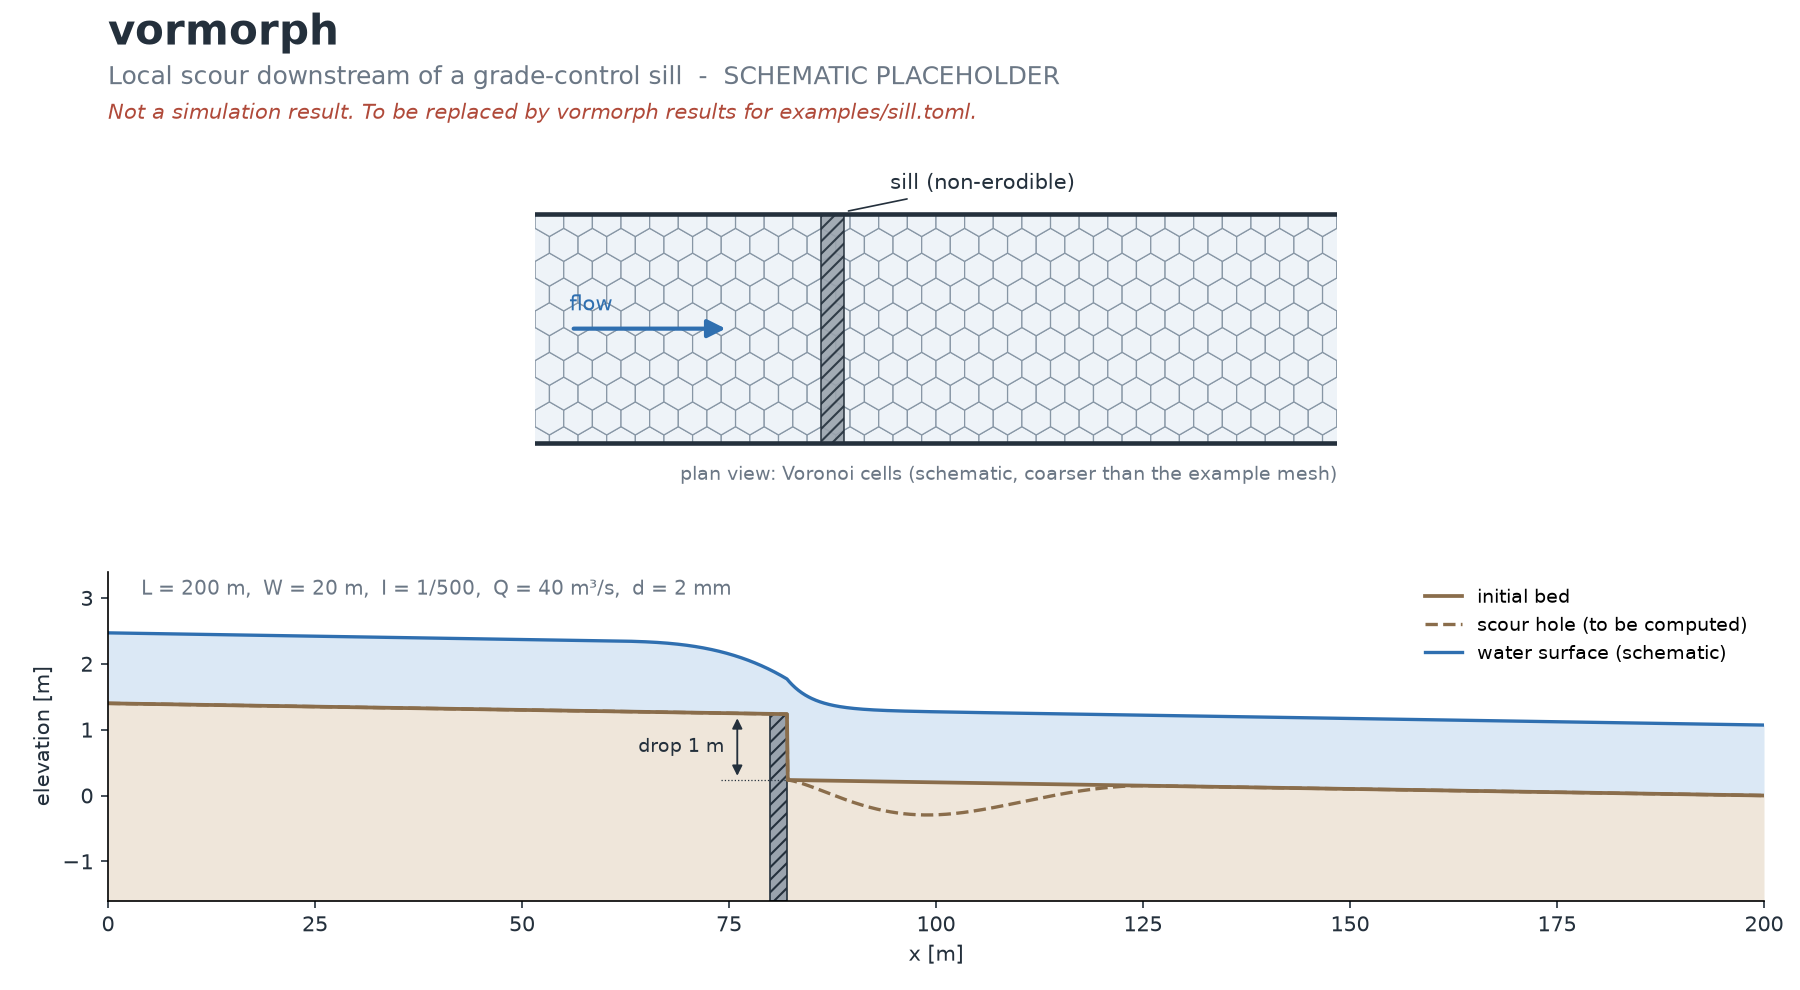
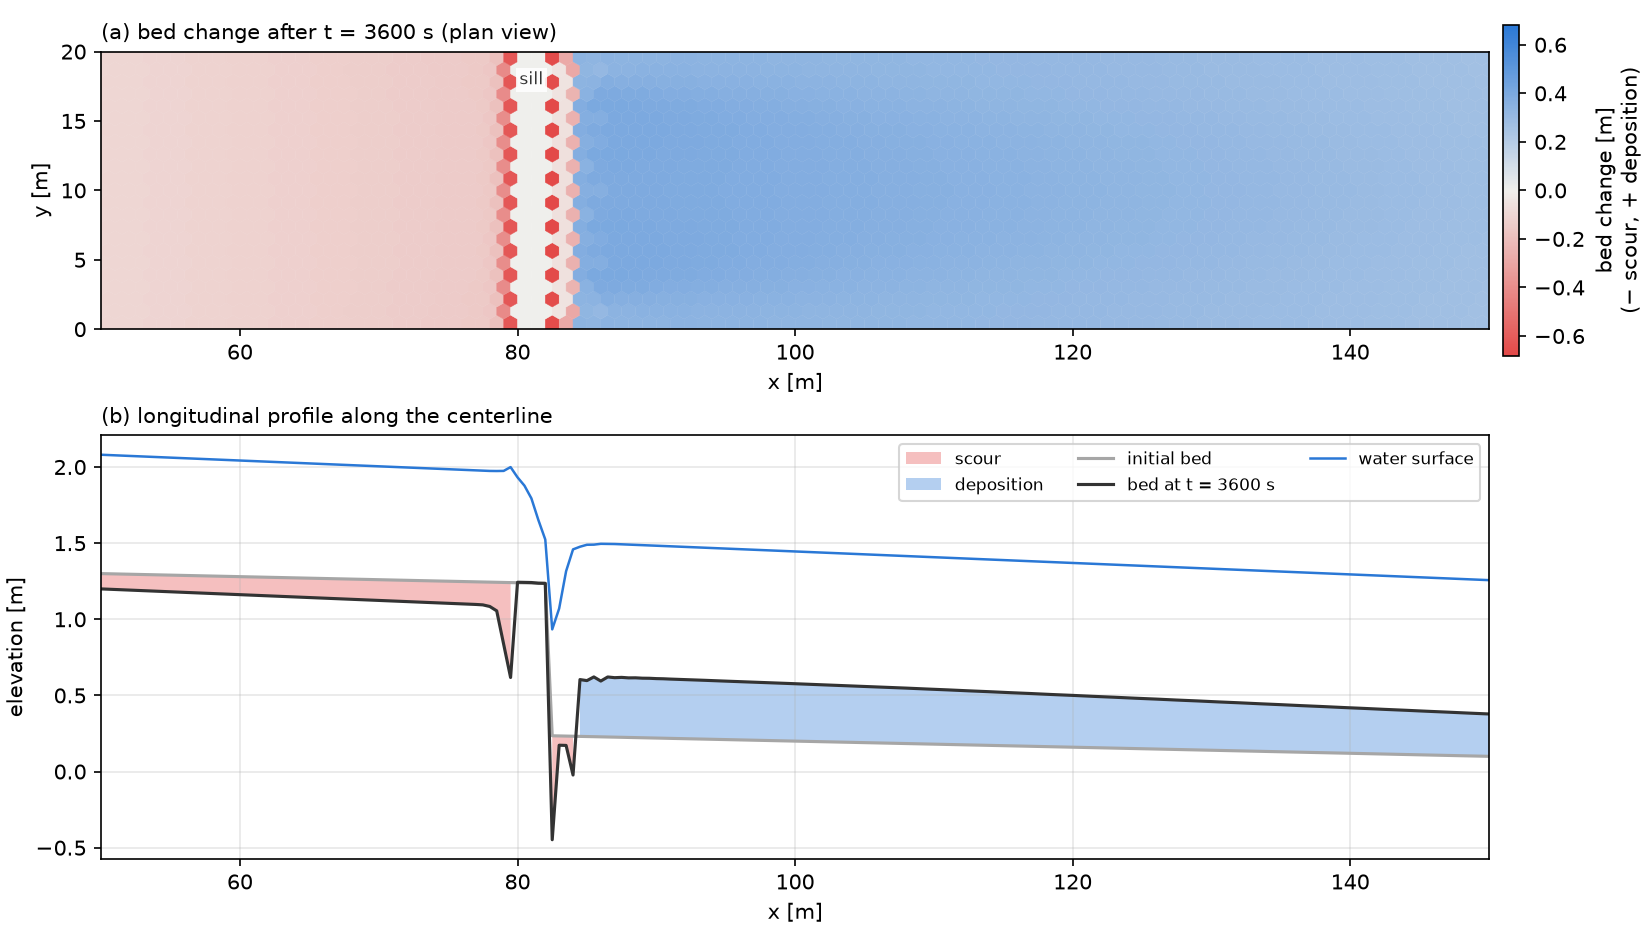
docs(readme): replace the hero image with the sill example result
tools/plot_sill.py draws the bed change of examples/sill.toml in plan view
(diverging colours centred on zero) and along the centerline. The caption
states that the one-cell scour hole below the sill depends on the grid and
that the broad deposition includes the extra equilibrium supply caused by
the drawdown.

Claude-Session: https://claude.ai/code/session_0163QpRb6tc7Fv4S6eEipgMW

diff --git a/tools/plot_sill.py b/tools/plot_sill.py
@@ -1,0 +1,181 @@
+"""床止めの例題（examples/sill.toml）の計算結果から、河床変動量の平面図と縦断図を描く。
+
+README の冒頭の図（docs/images/hero.png）を、この図で作る。
+
+使い方::
+
+    cargo run --release -- run examples/sill.toml
+    uv run --project tools python tools/plot_sill.py output/sill/sill.pvd -o docs/images/hero.png
+
+前提（src/io.rs の出力の規約）:
+    `.pvd` の最初の時刻が初期状態、最後の時刻が描く状態。セルデータに x_cell, y_cell, zb, eta, h,
+    dzb がある。床止めの位置（非侵食層の帯）は fixed_bed から求める。
+"""
+
+from __future__ import annotations
+
+import argparse
+from collections.abc import Sequence
+from pathlib import Path
+
+import matplotlib
+
+matplotlib.use("Agg")
+
+import matplotlib.pyplot as plt
+import meshio
+import numpy as np
+from matplotlib.collections import PolyCollection
+from matplotlib.colors import LinearSegmentedColormap
+
+from plot_profile import cell_field, longitudinal_profile
+from plot_verification import read_collection
+
+EROSION = "#e34948"
+"""洗掘（河床が下がる）の色（発散配色の赤の極）。"""
+DEPOSITION = "#2a78d6"
+"""堆積（河床が上がる）の色（発散配色の青の極）。"""
+NEUTRAL = "#f0efec"
+"""変化のない所の色（発散配色の中点の灰色）。"""
+WATER = "#2a78d6"
+"""水面の線の色。"""
+INITIAL_BED = "0.65"
+"""初期の河床の線の色（無彩色）。"""
+BED = "0.2"
+"""計算後の河床の線の色。"""
+
+
+def bed_change_colormap() -> LinearSegmentedColormap:
+    """河床変動量の発散配色（洗掘 = 赤、0 = 灰色、堆積 = 青）。0 を中央に置いて使う。"""
+    return LinearSegmentedColormap.from_list("bed_change", [EROSION, NEUTRAL, DEPOSITION])
+
+
+def symmetric_limit(values: np.ndarray) -> float:
+    """0 を中央に置く色の範囲の上限（絶対値の最大値。すべて 0 なら 1）。"""
+    limit = float(np.nanmax(np.abs(values))) if values.size else 0.0
+    return limit if limit > 0.0 else 1.0
+
+
+def cell_polygons(mesh: meshio.Mesh) -> list[np.ndarray]:
+    """セルの多角形（頂点の xy 座標）を、セルデータと同じ順に返す。"""
+    points = mesh.points[:, :2]
+    return [points[cell] for block in mesh.cells for cell in block.data]
+
+
+def sill_extent(mesh: meshio.Mesh) -> tuple[float, float] | None:
+    """非侵食層のあるセル（fixed_bed = 1）の x の範囲（なければ None）。"""
+    if "fixed_bed" not in mesh.cell_data:
+        return None
+    fixed = cell_field(mesh, "fixed_bed") > 0.5
+    if not fixed.any():
+        return None
+    polygons = cell_polygons(mesh)
+    xs = np.concatenate([polygons[c][:, 0] for c in np.flatnonzero(fixed)])
+    return float(xs.min()), float(xs.max())
+
+
+def plot_sill(pvd: Path, output: Path, x_range: tuple[float, float]) -> None:
+    """平面図（河床変動量）と、中心線の縦断図（初期の河床、計算後の河床、水面）を描く。"""
+    entries = read_collection(pvd)
+    initial = meshio.read(entries[0][1])
+    time, path = entries[-1]
+    final = meshio.read(path)
+
+    x = cell_field(final, "x_cell")
+    y = cell_field(final, "y_cell")
+    dzb = cell_field(final, "dzb")
+    polygons = cell_polygons(final)
+    inside = (x >= x_range[0]) & (x <= x_range[1])
+    limit = symmetric_limit(dzb[inside])
+
+    width = float(y.max() + y.min())
+    fig, (plan, profile) = plt.subplots(
+        2, 1, figsize=(11, 6.2), constrained_layout=True, height_ratios=(1.0, 1.15)
+    )
+    cells = PolyCollection(
+        [polygons[c] for c in np.flatnonzero(inside)],
+        array=dzb[inside],
+        cmap=bed_change_colormap(),
+        edgecolors="face",
+        linewidths=0.2,
+    )
+    cells.set_clim(-limit, limit)
+    plan.add_collection(cells)
+    plan.set_xlim(*x_range)
+    plan.set_ylim(0.0, width)
+    plan.set_aspect("equal")
+    plan.set_xlabel("x [m]")
+    plan.set_ylabel("y [m]")
+    colorbar = fig.colorbar(cells, ax=plan, shrink=0.9, pad=0.01)
+    colorbar.set_label("bed change [m]\n(− scour, + deposition)")
+    sill = sill_extent(final)
+    if sill is not None:
+        plan.text(
+            0.5 * (sill[0] + sill[1]),
+            0.93 * width,
+            "sill",
+            ha="center",
+            va="top",
+            fontsize="small",
+            color="0.2",
+            bbox={"facecolor": "white", "edgecolor": "none", "alpha": 0.85, "pad": 1.5},
+        )
+    plan.set_title(
+        f"(a) bed change after t = {time:g} s (plan view)",
+        loc="left",
+        fontsize="medium",
+    )
+
+    center = 0.5 * width
+    x0, zb0, _ = longitudinal_profile(initial, y_center=center, half_band=1.0, bin_width=0.5)
+    x1, zb1, eta1 = longitudinal_profile(final, y_center=center, half_band=1.0, bin_width=0.5)
+    keep0 = (x0 >= x_range[0]) & (x0 <= x_range[1])
+    keep1 = (x1 >= x_range[0]) & (x1 <= x_range[1])
+    zb0_on_1 = np.interp(x1, x0, zb0)
+    profile.fill_between(
+        x1[keep1],
+        zb0_on_1[keep1],
+        zb1[keep1],
+        where=zb1[keep1] < zb0_on_1[keep1],
+        color=EROSION,
+        alpha=0.35,
+        lw=0.0,
+        label="scour",
+    )
+    profile.fill_between(
+        x1[keep1],
+        zb0_on_1[keep1],
+        zb1[keep1],
+        where=zb1[keep1] > zb0_on_1[keep1],
+        color=DEPOSITION,
+        alpha=0.35,
+        lw=0.0,
+        label="deposition",
+    )
+    profile.plot(x0[keep0], zb0[keep0], color=INITIAL_BED, lw=1.5, label="initial bed")
+    profile.plot(x1[keep1], zb1[keep1], color=BED, lw=1.5, label=f"bed at t = {time:g} s")
+    profile.plot(x1[keep1], eta1[keep1], color=WATER, lw=1.2, label="water surface")
+    profile.set_xlim(*x_range)
+    profile.set_xlabel("x [m]")
+    profile.set_ylabel("elevation [m]")
+    profile.set_title("(b) longitudinal profile along the centerline", loc="left", fontsize="medium")
+    profile.legend(loc="upper right", fontsize="small", ncol=3)
+    profile.grid(alpha=0.3)
+    fig.savefig(output, dpi=150)
+
+
+def main(argv: Sequence[str] | None = None) -> int:
+    parser = argparse.ArgumentParser(description=__doc__.splitlines()[0])
+    parser.add_argument("pvd", type=Path, help="the .pvd written by `vormorph run examples/sill.toml`")
+    parser.add_argument("-o", "--output", type=Path, required=True, help="output image")
+    parser.add_argument(
+        "--x-range", type=float, nargs=2, default=(50.0, 150.0), metavar=("X0", "X1"), help="x range [m]"
+    )
+    args = parser.parse_args(argv)
+    plot_sill(args.pvd, args.output, tuple(args.x_range))
+    print(f"wrote {args.output}")
+    return 0
+
+
+if __name__ == "__main__":
+    raise SystemExit(main())

diff --git a/tools/tests/test_plot_sill.py b/tools/tests/test_plot_sill.py
@@ -1,0 +1,73 @@
+"""plot_sill.py のテスト。"""
+
+from __future__ import annotations
+
+from pathlib import Path
+
+import meshio
+import numpy as np
+import pytest
+
+from plot_sill import bed_change_colormap, main, sill_extent, symmetric_limit
+
+
+def write_case(directory: Path) -> Path:
+    """4 × 2 個の正方形セルの水路（x = 0〜4、y = 0〜2）の2時刻を書き、.pvd を返す。
+
+    x = 1〜2 の列を床止め（fixed_bed = 1）とし、最後の時刻に下流側を掘る。
+    """
+    nx, ny = 4, 2
+    points = np.array([[i, j, 0.0] for j in range(ny + 1) for i in range(nx + 1)], dtype=float)
+    cells = []
+    for j in range(ny):
+        for i in range(nx):
+            a = j * (nx + 1) + i
+            cells.append([a, a + 1, a + nx + 2, a + nx + 1])
+    xc = np.array([i + 0.5 for j in range(ny) for i in range(nx)])
+    yc = np.array([j + 0.5 for j in range(ny) for i in range(nx)])
+    zb0 = 0.01 * (nx - xc)
+    entries = []
+    for k, dz in enumerate([np.zeros_like(xc), np.where(xc > 2.0, -0.2, 0.0)]):
+        zb = zb0 + dz
+        data = {
+            "x_cell": xc,
+            "y_cell": yc,
+            "zb": zb,
+            "eta": zb0 + 1.0,
+            "h": zb0 + 1.0 - zb,
+            "dzb": dz,
+            "fixed_bed": np.where((xc > 1.0) & (xc < 2.0), 1.0, 0.0),
+        }
+        name = f"case_{k:06d}.vtu"
+        meshio.write(
+            directory / name,
+            meshio.Mesh(points, [("quad", np.array(cells))], cell_data={key: [v] for key, v in data.items()}),
+        )
+        entries.append((60.0 * k, name))
+    pvd = directory / "case.pvd"
+    body = "\n".join(f'    <DataSet timestep="{t}" group="" part="0" file="{n}"/>' for t, n in entries)
+    pvd.write_text(
+        f'<?xml version="1.0"?>\n<VTKFile type="Collection"><Collection>\n{body}\n</Collection></VTKFile>\n',
+        encoding="utf-8",
+    )
+    return pvd
+
+
+def test_symmetric_limit_centers_the_colors_on_zero() -> None:
+    assert symmetric_limit(np.array([-0.3, 0.1, 0.2])) == pytest.approx(0.3)
+    assert symmetric_limit(np.zeros(3)) == 1.0
+
+
+def test_colormap_runs_from_scour_through_neutral_to_deposition() -> None:
+    cmap = bed_change_colormap()
+    red, middle, blue = cmap(0.0), cmap(0.5), cmap(1.0)
+    assert red[0] > red[2] and blue[2] > blue[0]
+    assert max(middle[:3]) - min(middle[:3]) < 0.03
+
+
+def test_sill_extent_and_figure(tmp_path: Path) -> None:
+    pvd = write_case(tmp_path)
+    assert sill_extent(meshio.read(tmp_path / "case_000001.vtu")) == (1.0, 2.0)
+    output = tmp_path / "hero.png"
+    assert main([str(pvd), "-o", str(output), "--x-range", "0", "4"]) == 0
+    assert output.stat().st_size > 10_000

diff --git a/README.md b/README.md
@@ -6,11 +6,9 @@
 [![License: MIT OR Apache-2.0](https://img.shields.io/badge/license-MIT%20OR%20Apache--2.0-blue.svg)](#ライセンス)
 [![Rust 1.85+](https://img.shields.io/badge/rust-1.85%2B-orange.svg?logo=rust)](https://www.rust-lang.org/)
 
-<!--
-  ヒーロー画像は現在プレースホルダー（模式図）です。
-  床止め例題（examples/sill.toml）の計算結果（河床変動量の平面図と縦断図）ができたら差し替えます。
--->
-![床止め下流の局所洗掘の模式図（プレースホルダー。計算結果ではありません）](docs/images/hero.png)
+![床止めの例題の計算結果。上は河床変動量の平面図（赤は洗掘、青は堆積）、下は中心線の縦断図（初期の河床、3600 s 後の河床、水面）](docs/images/hero.png)
+
+*`examples/sill.toml` の計算結果（落差 1 m の床止め、流量 40 m³/s、粒径 2 mm、MORFAC 10、3600 s）。床止めの直下が 0.68 m 洗掘され、下流に堆積し、床止めの上流は水面低下で下がります。床止めの直下の洗掘孔は1セルの幅で、深さは格子幅に依存します。下流の広い堆積には、平衡給砂の給砂量が水面低下で増えた分も含まれます（[検証](docs/verification.md#床止めの例題の格子依存性参考2026-11-06)）。図は `tools/plot_sill.py` で描きました。*
 
 > **開発状況**：v0.1.0 は開発中です。実装済みなのは、設定ファイルの検証、格子（Python の格子生成ツール（[格子生成](#格子生成)）、直線水路の格子生成、接続配列と幾何量の組み立て、幾何の検査）、Perot 法による流速の再構成、VTK 出力、流れの半陰解法（wet/dry、流量・水位境界、陰的な摩擦、保存型風上差分の移流）、時間刻みの決め方（固定、またはクーラン数で決める可変）、掃流砂と河床変動（辺で評価する掃流砂、長谷川の式による勾配補正、非侵食層、Exner 式、MORFAC、安息角補正）、設定からのモデルの組み立てと計算の実行（`vormorph run`。直線水路）です。**浮遊砂はまだ実装していません。**実装の進み具合は[検証](#検証)の表と[ロードマップ](#ロードマップ)に記載しています。
 
@@ -215,6 +213,8 @@ uv run --project tools python tools/make_mesh.py examples/domains/bend.toml \
 ```bash
 uv sync --project tools
 uv run --project tools python tools/plot_profile.py output/sill/sill_*.vtu -o profile.png
+# 河床変動量の平面図と縦断図（README の冒頭の図）
+uv run --project tools python tools/plot_sill.py output/sill/sill.pvd -o hero.png
 ```
 
 ## プロジェクト構成
@@ -252,7 +252,7 @@ vormorph/
 - [x] 流れ：半陰解法と wet/dry（V03, V04）、流量・水位境界と摩擦（V06）
 - [x] 急変流：保存型風上差分（V05, V07）、V04 の解析解との比較
 - [x] 六角形配置で、止まっている跳水の位置に生じる横断方向の流れの対策（V07 で判明。移流で辺の流速を上流の流速へ近づける形にした。ADR-0009）
-- [ ] 河床変動：掃流砂・Exner 式・非侵食層、床止めの例題（V11）とヒーロー画像の差し替え
+- [x] 河床変動：掃流砂・Exner 式・非侵食層・安息角補正、可変の時間刻みと `vormorph run`、こぶの移動（V11）と平衡河床の保持（V12）、床止めの例題とヒーロー画像の差し替え。床止めの直下の局所洗掘は格子に依存することがわかったので、V11 はこぶの移動に変えた（[検証](docs/verification.md)）
 - [ ] 浮遊砂（V08）
 - [ ] 交互砂州・湾曲水路（V09, V10）
 - [ ] 以降の候補：混合粒径（平野の交換層モデル）、rayon による並列化、加速流でのエネルギー水頭保存形、局所的に細かい格子

diff --git a/CHANGELOG.md b/CHANGELOG.md
@@ -73,4 +73,5 @@
 - 上流端の給砂に「一定の給砂量」（`sediment_supply = "constant"`）を追加（ADR-0013）。河床変動を始めた最初のステップの平衡給砂量の合計を保ち、各ステップの平衡給砂量に比例して辺に配る。上流端の流れが速くなる条件では上流の区間が給砂不足で下がり、流路が分化しうるので、`examples/sill.toml` は平衡給砂のまま。V12 に一定の給砂量の六角形配置 2 m のケースを追加
 - 検証ケース V11 を「床止め下流の局所洗掘」から「河床のこぶの移動」（`v11_bump_migration`）に変更・実装。床止めの直下の洗掘孔は1セルにだけでき、格子を細かくしても収束しなかったため（作者と相談して変更。調査の記録は `docs/verification.md`）。高さ 0.1 m のこぶの縦断形の差が格子幅 1・0.5・0.25 m で 0.109 → 0.079 m² と減り、高さ 0.02 m のこぶの山の移動速度が線形理論と −1.0% で一致。図 `docs/images/v11_bump_migration.png` と `tools/plot_verification.py v11`
 - 格子生成ツールの格子の凸な角に接するセルの河床変動を確かめるテスト `tests/corner_cells.rs`（加速する流れで、角のセルの偏りは内部・壁ぎわと同じ程度）。結果を `docs/design/mesh-generation.md` の第8節に記録
+- 床止めの例題の河床変動量の平面図と縦断図を描く `tools/plot_sill.py`（pytest のテストつき）。README の冒頭の図 `docs/images/hero.png` を、模式図から `examples/sill.toml` の計算結果に差し替え
 - ライセンス：MIT OR Apache-2.0
